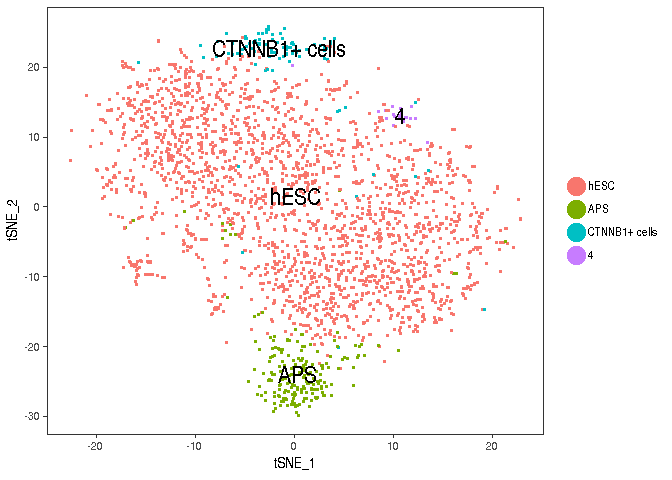
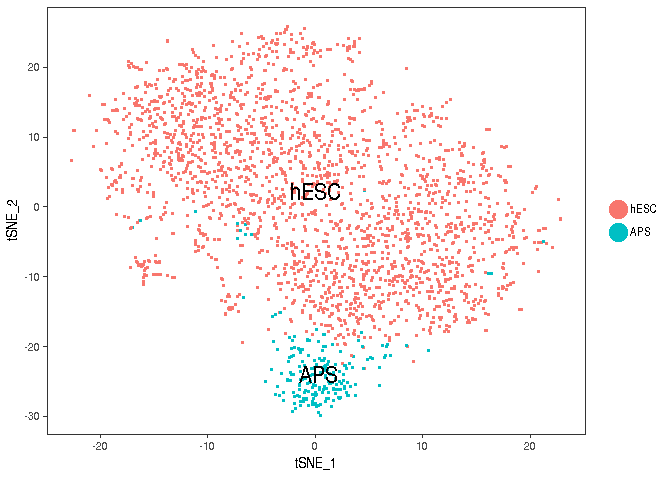
Updated files

diff --git a/Bioconductor_analysis/Exploratory_analysis_seurat_better_version.md b/Bioconductor_analysis/Exploratory_analysis_seurat_better_version.md
@@ -144,7 +144,9 @@ s.genes <- cc.genes[1:43]
 g2m.genes <- cc.genes[44:97]
 
 esc <- ScaleData(object = esc, display.progress = FALSE)
-#only NASP is in PC4, there are no other genes, related to cell-cycle; however a lot of are MT genes, which is expected
+
+#esc <- RunPCA(object = esc, pc.genes = rownames(esc@data), pcs.print = 1:4, 
+#    genes.print = 10)
 esc <- RunPCA(object = esc, pc.genes = esc@var.genes, pcs.print = 1:4, 
     genes.print = 10)
 ```
@@ -471,8 +473,8 @@ print(x = head(x = cluster3.markers, n = 10))
 For testing:
 
 ``` r
-current.cluster.ids <- c(0, 1, 2, 3)
-new.cluster.ids <- c("hESC", "hESC", "APS", "CTNNB1+ cells")
+current.cluster.ids <- c(0, 1, 2, 3, 4)
+new.cluster.ids <- c("hESC", "hESC", "APS", "hESC", 'hESC')
 x <- esc
 x@ident <- plyr::mapvalues(x = x@ident, from = current.cluster.ids, to = new.cluster.ids)
 TSNEPlot(object = x, do.label = TRUE, pt.size = 0.5, label.size = 6)
